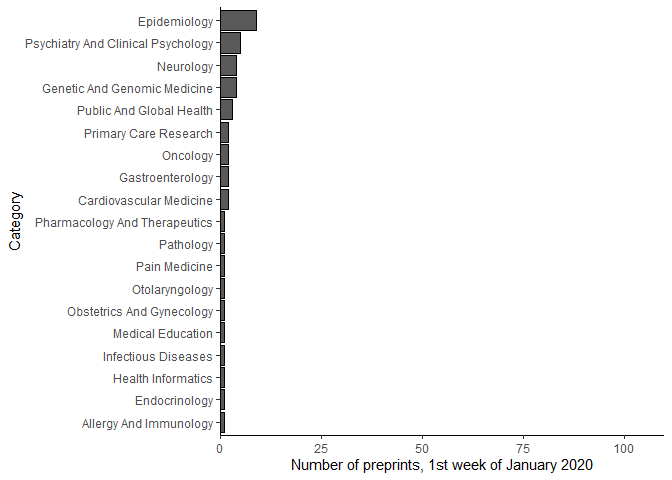
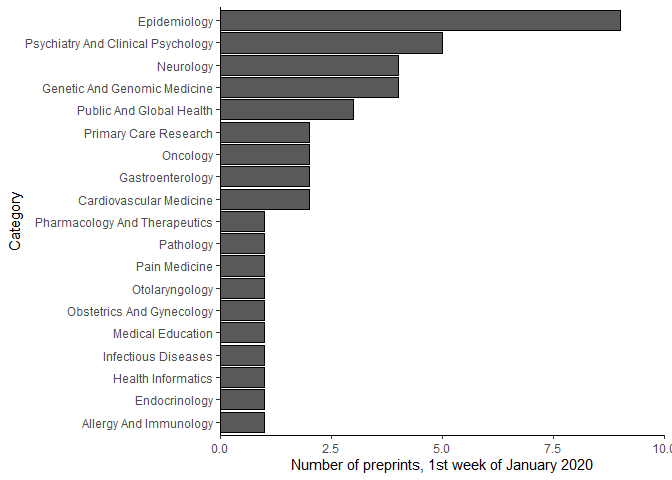
Final updates to blogposts

diff --git a/content/blog/2020-10-20-searching-medrxivr-and-biorxiv-preprint-data/index.md b/content/blog/2020-10-20-searching-medrxivr-and-biorxiv-preprint-data/index.md
@@ -1,5 +1,5 @@
 ---
-title: Searching MedRxivr and Biorxiv Preprint Data
+title: Searching MedRxiv and Biorxiv Preprint Data
 author:
   - Luke McGuinness
 date: '2020-10-20'
@@ -18,8 +18,7 @@ tags:
   - bibliographic-database
   - evidence-synthesis
 package_version: 0.0.3
-description: A very short summary of your post (~ 100 characters)
-twitterImg: blog/2019/06/04/post-template/name-of-image.png
+description: The medrxivr package allows users to import and search medRxiv and bioRxiv preprint metadata.
 output:
   html_document:
     keep_md: yes
@@ -27,30 +26,10 @@ output:
 
 
 
-**Add an image** by using a Hugo shortcode. The image is saved under `/content/blog/YYYY-MM-DD-slug/name-of-image.png`.
-
-<!--html_preserve-->
-{{< figure src = "name-of-image.png" width = "400" alt = "this is the alternative text" >}}
-<!--/html_preserve-->
-
-Consult the Technical Guidelines for tips on changing image size, alignment, and for advice on alternative text.
-
-Below is another image, a plot generated by a code chunk, so you might see how to add alternative text and other options in this case. You can also use [all options documented for the figure shortcode](https://gohugo.io/content-management/shortcodes/#figure) except for `src` that will be created automatically when knitting.
-
-
-**Embed a tweet** by using a Hugo shortcode. 
-
-<!--html_preserve-->
-{{< tweet 1138216112808529920 >}}
-<!--/html_preserve-->
-
-
-----
-
 # Background & Motivation
-[medRxiv](https://www.medrxiv.org/), as the preprint repository for papers in the medical, clinical, and related health sciences, has become a central source of new information related to the COVID-19 pandemic, and is a key source of new studies related to the COVID-19 pandemic. As a result, more and more researchers have begun to include medRxiv in the list of bibliographic databases they search as part of systematic reviews, a type of study that aims to find and bring together all available evidence on a topic in order to provide a comprehensive answer to a research question.
+[medRxiv](https://www.medrxiv.org/), as the preprint repository for papers in the medical, clinical, and related health sciences,[^1] has become a central source of new studies related to the COVID-19 pandemic. As a result, more and more researchers have begun to include medRxiv in the list of bibliographic databases they search as part of systematic reviews, a type of study that aims to find and bring together all available evidence on a topic in order to provide a comprehensive answer to a research question.
 
-However, the native search functionality available on the medRxiv website is not suitable for use in systematic reviews, due to a number of limitations. These limitations, presented below, prompted the development of `medrxivr` R package which provides access to and tools for searching medRxiv preprint metadata. This post will summarize the key functionality of the packge with respect to two key use cases. Note that `medrxivr` allows users to access and search bioRxiv preprint data also, as both repositories are run by the Cold Spring Harbor Laboratory and so have a similar API endpoint, but all illustrating examples in this post are taken from medRxiv.
+However, the native search functionality available on the medRxiv website is not suitable for use in systematic reviews, due to a number of limitations. These limitations, presented below, prompted the development of `medrxivr` R package which provides access to, and tools for searching, medRxiv preprint metadata. This post will also summarize the key functionality of the package with respect to two key use cases. Note that `medrxivr` allows users to access and search bioRxiv as well as medRxiv preprint metadata , as both repositories are run by the Cold Spring Harbor Laboratory and so have a similar API endpoint/native website search functionality, but all illustrating examples in this post are taken from medRxiv.
 
 ## Limitations of the native medRxiv website search functionality
 
@@ -84,9 +63,7 @@ Any systematic reviewer will tell you that for a database to be useful as an inf
 {{< tweet 1255485844783325185 >}}
 <!--/html_preserve-->
 
-<br>
-
-This means that records returned by a search must be exported by hand in small batches, an error-prone and time-consuming (not to mention anger-inducing) method of extracting citations from a bibliographic database.
+This means that records returned by a search must be exported by hand in small batches, an error-prone and time-consuming (not to mention anger-inducing!) method of extracting citations from a bibliographic database.
 
 <br>
 
@@ -94,11 +71,12 @@ This means that records returned by a search must be exported by hand in small b
 
 In light of these limitations, below are two key use cases for the `medrxivr` package.
 
-### Use Case #1 – Get preprint metadata
+### Use Case #1 – Get preprint metadata in R
 
-The primary aim of `medrxivr` is to make it as easy as possible to get cleaned preprint metadata into R. This enables a range of exploratory analysis to be readily performed. For example, to explore the distribution of categories for preprints posted to medRxiv in the first week of this year, the following code is used:
+The primary aim of `medrxivr` is to make it as easy as possible to get cleaned preprint metadata into R. This enables a range of exploratory analysis to be readily performed. For example, to explore the distribution of topic categories for those preprints posted to medRxiv in the first week of 2020, the following code can be used:
 
-```r 
+
+```r
 # Import the data from the 
 mx_data <- mx_api_content(from_date = "2020-01-01", to_date = "2020-01-07")
 
@@ -106,7 +84,6 @@ mx_data <- mx_api_content(from_date = "2020-01-01", to_date = "2020-01-07")
 mx_data %>%
   group_by(category) %>%
   summarise(N = n(), .groups = "keep") %>%
-  ungroup() %>%
   arrange(desc(N)) %>%
   ggplot(aes(y = reorder(category,N), x = N)) +
   geom_col(colour = "black") + 
@@ -117,24 +94,25 @@ mx_data %>%
 ```
 
 <!--html_preserve-->
-{{< figure src = "categories-1.png" width = "400" alt = "Distribution of preprints posted to medRxiv in the first week of 2020 across topic categories." >}}
+{{< figure src = "categories-1.png" width = "600" alt = "Distribution of preprints posted to medRxiv in the first week of 2020 across topic categories." >}}
 <!--/html_preserve-->
 
 ### Use Case #2 – Perform transparent and reproducible searches as part of a literature review, and export results
 
-While importing data, as a systematic reviewer, my main interest is in what `medrxivr` allows you to do once you have imported it. As mentioned in the motivation section above, the native medRxiv search interface is neither accurate nor transparent. The second core aspect of `medrxivr`'s functionality is designed to address this, allowing information specialists to build complex searches and find records contained in the medRxiv databases that match the criteria. An example is given below, where a researcher is looking for records that contain both dementia-related and lipid-related terms:
+While being able to easily import medRxiv data is useful, as a systematic reviewer, my main interest is in what `medrxivr` allows you to do once you have imported it. As mentioned in the section above, the native medRxiv website search interface is neither reproducible nor transparent. The second core aspect of `medrxivr`'s functionality is designed to address this, allowing information specialists to build complex searches and find records contained in the medRxiv databases that match the criteria, all while documenting their search strategy. An example is given below, where a researcher is looking for records that contain both dementia-related and lipid-related terms:
 
-```r 
+
+```r
 # Use the maintained snapshot to quickly load today's copy of the medRxiv database
 # Note - this could be saved in your project repo to ensure reproducibility
 preprint_data <- mx_snapshot()
 ```
 
 ```
-Using medRxiv snapshot - 2020-10-13 00:32
+## Using medRxiv snapshot - 2020-10-14 00:31
 ```
 
-```r 
+```r
 # Build your search
 topic1  <- c("dementia","vascular","alzheimer's")  # Combined with Boolean OR
 topic2  <- c("lipids","statins","cholesterol")     # Combined with Boolean OR
@@ -146,7 +124,7 @@ results <- mx_search(data = preprint_data,
 ```
 
 ```
-Found 47 record(s) matching your search.
+## Found 47 record(s) matching your search.
 ```
 
 Once you have run your search, exporting the results to a .BIB file for import into a reference manager, such as Zotero or Mendeley, is a simply as passing the results object to the `mx_export()` function.
@@ -155,7 +133,7 @@ Similarly, as screening through the full text PDFs of records returned by a sear
 
 ## Conclusion
 
-medRxiv is a fantastic resource and has been a key source of information related to the COVID-19 pandemic. However, some key issues with the website and mean that the native search functionality on the website precludes it's use in systematic reviews. The `medrxivr` R package seeks to address these limitations by providing a user-friendly way to import and systematically search medRxiv and bioRxiv records in R. Full documentation on the functionality, especially around the design of complex search strategies, is available from the [package website](https://docs.ropensci.org/medrxivr/).
+medRxiv is a fantastic resource and has been a key source of information related to the COVID-19 pandemic. However, some key issues with the website mean that its native search functionality precludes its use in systematic reviews. The `medrxivr` R package seeks to address these limitations by providing a user-friendly way to import and systematically search medRxiv and bioRxiv records in R. Full documentation on the functionality, particularly around the implementation of complex search strategies using syntax such as wildcards and NEAR, is available from the [package website](https://docs.ropensci.org/medrxivr/).
 
 [^1]: Rawlinson, C., & Bloom, T. (2019). New preprint server for medical research. BMJ, 365. <https://doi.org/doi:10.1136/bmj.l2301>
 
